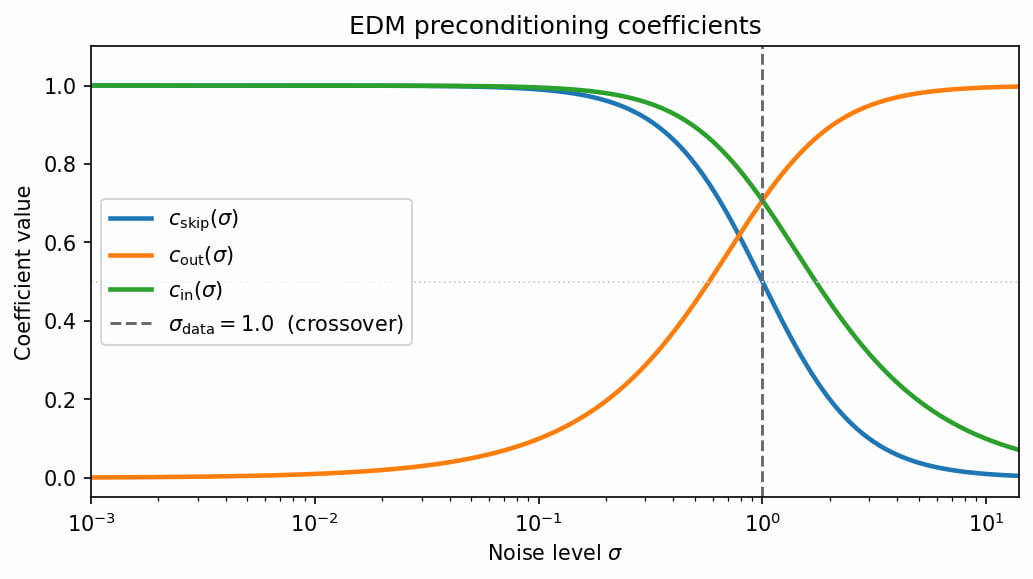
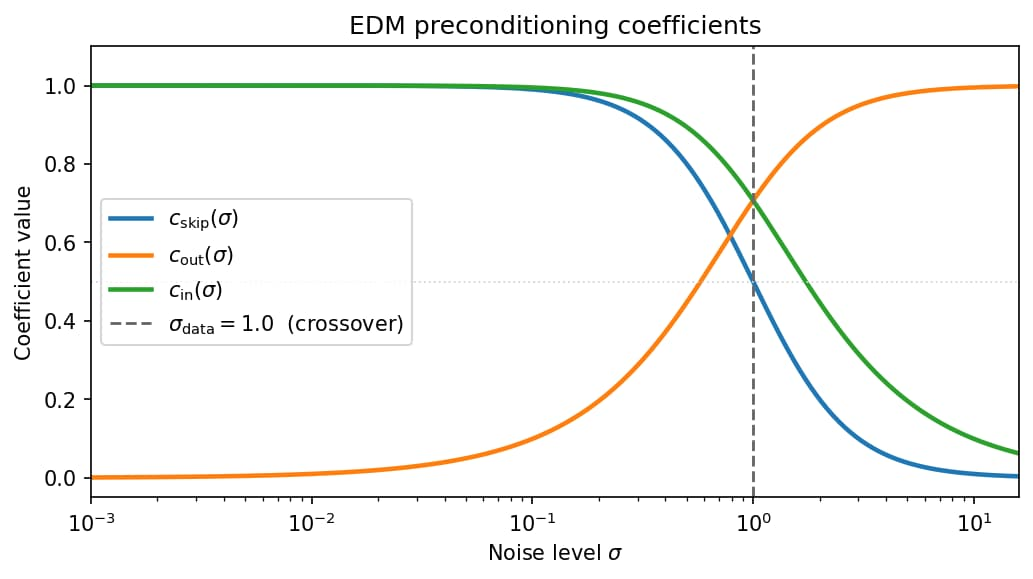
last modifications

diff --git a/ch3_theoretical_framework.tex b/ch3_theoretical_framework.tex
@@ -18,35 +18,35 @@ overnight return \(O_t / C_{t-1}\), which captures the opening gap with
 respect to the previous close, and the intraday range \(H_t - L_t\), a 
 well-established realised volatility proxy \cite{parkinson1980extreme}. In addition, log-returns are often preferred to nominal prices because of their stationarity \cite{cont2001empirical}, which makes them comparable across time and assets, removing underlying price trends.
 
-According to what stated before data can be partitioned into a conditioning set 
-\(\mathcal{C} = \{O, H, L\}\) and a target set \(\mathcal{T} = \{C\}\), 
-and the model is trained to learn the conditional distribution
+The data are therefore partitioned into observed conditioning variables 
+$X^{\text{co}} = \{O, H, L\}$ and a generation target $X^{\text{ta}} = \{C\}$, 
+and the model is trained to learn the conditional distribution:
 \[
-    p\!\left(X^{\text{ta}} \mid X^{\text{co}} = x^{\text{co}}\right),
+    p\!\left(X^{\text{ta}} \mid X^{\text{co}} = x^{\text{co}}\right)
 \]
-where \(X^{\text{ta}}\) denotes the Close channel and \(X^{\text{co}}\) 
-denotes the observed OHL channels. 
 
-Daily prices are constrained by the ordering relationship 
-\(L_t \leq \min(O_t, C_t) \leq \max(O_t, C_t) \leq H_t\). 
+Daily prices are constrained by the ordering relationship:
+\[L_t \leq \min(O_t, C_t) \leq \max(O_t, C_t) \leq H_t\] 
 When the series is expressed as log-returns (Eq.\ref{eq:log_returns}), this constraint no longer 
 admits a closed form, since it involves nonlinear inequalities across cumulative sums of returns rather than individual observations. 
-Nevertheless, it remains a building structural property of the 
-data-generating process. On the other hand, because the Gaussian diffusion kernel has 
-unbounded support, there is no guarantee that generated Close values 
-will respect the implied bounds \([L_t,\, H_t]\). No constraint-preserving 
-mechanism is applied in this work; the ordering relationship is further 
-disrupted by feature-wise global normalisation, which rescales each channel independently and therefore does not preserve the relative ordering between  channels.
+Nevertheless, it remains a fundamental structural property of the data-generating 
+process. On the other hand, because the Gaussian diffusion kernel has unbounded 
+support, there is no guarantee that generated Close values will respect the implied 
+bounds $[L_t, H_t]$. Moreover, enforcing such constraints is not always desirable: 
+confining generated price paths strictly within the High and Low bounds would 
+severely restrict the diversity of the generated samples. No constraint-preserving 
+mechanism is applied in this work; the ordering relationship is further disrupted by 
+feature-wise global normalisation, which rescales each channel independently and 
+therefore does not preserve the relative ordering between channels.
 
 \section{Classical Baselines with OHLC Conditioning}
 \label{sec:classical_baselines_theoretical}
 
-As introduced in Sec.~\ref{sec:classical_models_literature}, GARCH and Merton
+As introduced in Sec.\ \ref{sec:classical_models_literature}, GARCH and Merton
 models serve as parametric benchmarks. Both are extended with exogenous OHLC
 conditioning, denoted by the suffix \emph{-X}, so that they receive the same
-per-day information as the diffusion model's conditioning set
-$\mathcal{C}=\{O,H,L\}$. Each model is fitted per ticker by maximum likelihood
-via L-BFGS-B.
+per-day information as the diffusion model's conditioning set. Each model is fitted per ticker by maximum likelihood
+via L-BFGS-B\ \cite{byrd1995limited}.
 
 \textbf{Log-GARCH-X with Student-$t$ Innovations} \quad The close log-return follows an AR(1) mean with log-GARCH variance: \(r_t = \mu + \phi\, r_{t-1} + \varepsilon_t\) with \(\varepsilon_t = \sigma_t z_t\) and \(z_t \sim t_\nu\), therefore we are modeling:
 \begin{equation}
@@ -62,8 +62,8 @@ constraints on $(\omega,\alpha,\beta)$. The Student-$t$ innovations is used to b
     \tfrac{(\log H_t/L_t)^2}{4 \log 2} \Bigr]^\top,
 \]
 where $o_t^2$ is the squared overnight log-return and the second term is
-the Parkinson~\cite{parkinson1980extreme} realised variance estimator
-(Sec.~\ref{app:baselines} for more details).
+the Parkinson\ \cite{parkinson1980extreme} realised variance estimator
+(Sec.\ \ref{app:baselines} for more details).
 
 \textbf{Merton-X} \quad The close log-return is decomposed into a diffusive and a compound Poisson
 component:
@@ -82,47 +82,45 @@ where the diffusive volatility $\nu_t$ is driven by observations:
 Unlike GARCH-X, there is no sequential recursion: $\nu_t$ depends only on
 same-day observables, making the inference structure directly analogous to the
 diffusion model's use of $\{O_t, H_t, L_t\}$ to generate $C_t$.
-It is well established that marginalising over Poisson counts results in a Gaussian mixture likelihood (Sec.~\ref{app:baselines}). 
+It is well established that marginalising over Poisson counts results in a Gaussian mixture likelihood (Sec.\ \ref{app:baselines}). 
 
-Both baselines are parametric and trained globally per each ticker's full
-history, therefore they are ticker specific. Moreover, capture complementary stylized facts — volatility clustering and
-heavy tails in GARCH-X, sudden discontinuities in Merton-X — but neither
-learns the conditional distribution $p(r_t^C \mid r_t^O, r_t^H, r_t^L)$
-non-parametrically. The diffusion model is the non-parametric alternative,
+Both baselines are parametric and fitted separately on each ticker's full history, and are therefore ticker-specific. Moreover Merton-X captures a complementary stylized fact to GARCH-X: discontinuities. Nevertheless, none of the two learns the conditional distribution $p(r_t^C \mid r_t^O, r_t^H, r_t^L)$ non-parametrically. The diffusion model is the non-parametric alternative,
 at the cost of higher complexity.
 
 \section{SDE and the VE Instantiation}
-As discussed in Sec.~\ref{sec:scorediffmodels}, diffusion models were 
+As discussed in Sec.\ \ref{sec:scorediffmodels}, diffusion models were 
 originally developed in distinct formulations before being unified under 
-the EDM framework. These structures are relevant for Phase~1, which aims to replicate the results of Kim et al.\cite{kim2025diffusion}. Meanwhile, for Phase~2 we will move towards the EDM framework.
+the EDM framework. These formulation are relevant for Phase~1, which aims to replicate the results of Kim et al.\cite{kim2025diffusion}. Meanwhile, for Phase~2 we will move towards the EDM framework.
 
 \textbf{Phase 1} \quad Phase~1 is identical in its implementation to Song et al. in \cite{song2021score}, but in a simplified version.
 
-\textbf{Phase 2} \quad For Phase~2, we can look at the forward VE formulation, Eq.\ref{eq:reverse_sde}, the corresponding reverse SDE for VE case is \[dx=-\sigma\nabla_x \log p_\sigma(x)\] when defined in \(\sigma\)-space (with \(\sigma\) decreasing) instead of \(t\)-space, due to EDM conditioning modeling choices. With the deterministic counterparts, the probability flow ODE is:
+\textbf{Phase 2} \quad For Phase~2, by looking at the forward VE formulation (Eq.\ \ref{eq:forward_ve}), we can derive the reverse SDE\[dx=-\sigma\nabla_x \log p_\sigma(x)\] when defined in \(\sigma\)-space instead of \(t\)-space and with \(\sigma\) decreasing, as by EDM framework. The deterministic counterparts, the probability flow ODE, is:
 \[
 \frac{dx}{d\sigma}=-\frac{\sigma}{2}\nabla_x\log p_\sigma(x)
 \]
 
-As discussed in Sec.\ref{sec:scorediffmodels} we can use DSM to brigde the gap between denoising and score matching. It turned out that DSM is a special case of a statistical result known as Tweedie’s formula, which provides a relationship between score functions and conditional expectations. For noisy observation Eq.\ref{eq:forward_ve} the optimal MMSE denoiser is:
+As discussed in Sec.\ \ref{sec:scorediffmodels} we can use DSM to brigde the gap between denoising and score matching. It turned out that DSM is a special case of a statistical result known as Tweedie’s formula, which provides a relationship between score functions and conditional expectations. For noisy observation Eq.\ \ref{eq:forward_ve} the optimal MMSE denoiser is:
 \[
 D^*(x_t;\sigma)=\mathbb{E}\left[X_0|X_t=x_t\right]
 \]
-therefore denoiser and score function are connected by:
+Therefore, the denoiser and score function are connected by:
 \[
 \nabla_{x_t}\log p_\sigma(x_t)=\frac{D^*(x_t;\sigma)-x_t}{\sigma^2}
 \]
-implying that rather than learn the score field directly, which is hard and ill-conditioned regression target in high dimensions, we train a denoiser \(D_\theta\) to approximate \(D^*\), and we later recover the score analytically.
+implying that rather than learn the score field directly, which is hard and an ill-conditioned regression target in high dimensions, we train a denoiser \(D_\theta\) to approximate \(D^*\), and we later recover the score analytically.
 
 \section{GBM--style SDE and CSDI}
 \label{sec:gbm_sde_ch3}
-In Sec.\ref{sec:gbm_sde_ch2} we highlighted that the GBM derivation operates on log-prices $X_t=\log S_t$ in theory, while training is performed on log-returns. The cumulative interpretation of log-returns bridges this gap, since summing returns recovers the log-price path the GBM dynamics act upon. This stands from the fact that training diffusion models on raw log-prices is inadvisable
+In Sec.\ref{sec:gbm_sde_ch2} we highlighted that the GBM derivation operates on log-prices $X_t=\log S_t$ in theory, while training is performed on log-returns. The cumulative interpretation of log-returns closes this gap, since summing returns recovers the log-price path the GBM dynamics act upon. This stands from the fact that training diffusion models on raw log-prices is inadvisable
 for two reasons. First, log-prices are non-stationary, therefore their mean grows approximately linearly and with different scales across tickers and time periods. Second, the sampling process relies on a Gaussian prior 
-$\mathcal{N}(0, \sigma_{\max}^2 I)$ that should be well-matched to the training distribution, which in this case means only if the data input is approximately centered at zero with a scale commensurate with $\sigma_{\max}$. 
+$\mathcal{N}(0, \sigma_{\max}^2 I)$; for this prior to be well-matched 
+to the training distribution, the input data must be approximately 
+centred at zero with a scale commensurate with $\sigma_{\max}$.
 Raw log-prices violate both conditions significantly. Daily log-returns 
 $r_t = \log(S_t / S_{t-1})$ solve non-stationarity, however, 
 working with cumulative log-returns 
 $\mathcal{C}_{\tau+k} = \sum_{j=1}^{\tau+k} r_j$ 
-is motivated by the GBM theoretical derivation of Sec.~\ref{sec:gbm_sde_ch2} and by the experimental results shown in Figures~4--6 of \cite{kim2025diffusion}, that otherwise wouldn't have any reason to differentiate VE with GBM. How non--stationarity of cumulative log-returns is handled is addressed in Sec.\ref{sec:sliding_window_ch4}.
+is motivated by the GBM theoretical motivations of Sec.\ \ref{sec:gbm_sde_ch2} and by the experimental results shown in Figures~4--6 of Kim et al.\ \cite{kim2025diffusion}, that otherwise wouldn't have any reason to differentiate VE from GBM. How non--stationarity of cumulative log-returns is handled is addressed in Sec.\ \ref{sec:sliding_window_ch4}.
 
 \begin{figure}[htbp]          % placement: here, top, bottom, page
   \centering
@@ -131,33 +129,28 @@ is motivated by the GBM theoretical derivation of Sec.~\ref{sec:gbm_sde_ch2} and
   \label{fig:kim_architecture}
 \end{figure}
 
-Another inconsistency arises between the described use of time, positional, and diffusion-step embeddings. The text states that
+Another inconsistency in Kim et al.\ \cite{kim2025diffusion} concerns the use of time, positional, and diffusion-step embeddings. The text states that
 \begin{quote}
     \emph{These embeddings are added to the latent representation and passed through a Transformer block, which models global dependencies across time.}
 \end{quote}
-However, Fig.\ref{fig:kim_architecture} clearly shows that the time embeddings is provided only after the Transformer layer. This last interpretation was used. 
-
-Based on the model architecture presented in Fig.\ref{fig:kim_architecture}, the diffusion-step, temporal, and positional embeddings were interpreted as being injected independently at every residual block, consistently with the approach adopted in CSDI \cite{tashiro2021csdi}. This reading is further supported by Fig.\ref{fig:kim_architecture} itself, their position is probably justified by the fact that they are computed once. Notably, Kim et al.\ \cite{kim2025diffusion} describe the time embedding as combining sinusoidal functions with learnable vectors, while the positional embedding relies solely on fixed sinusoidal functions with no learnable parameters; this distinction suggests that the positional embedding is the only one among the three that contains no trainable weights. 
-
-% The authors Kim et al.\cite{kim2025diffusion} did not release a common dataset, source code, or key implementation details, including data pre-processing, the masking strategy, the model’s loss function or prediction target, kernel size, transformer hyperparameters, optimizer configuration, and others. All these aspects will be examined in detail in Ch.\ref{ch:data_setup}.
+However, Fig.\ \ref{fig:kim_architecture} clearly shows that the time embeddings is provided only after the Transformer layer. This last interpretation was used. Moreover, based on the model architecture presented in Fig.\ \ref{fig:kim_architecture}, the diffusion-step, temporal, and positional embeddings were interpreted as being injected independently at every residual block, consistently with the approach adopted in CSDI\ \cite{tashiro2021csdi}. Lastly, Kim et al.\ \cite{kim2025diffusion} describe the time embedding as combining sinusoidal functions with learnable vectors, while the positional embedding relies solely on fixed sinusoidal functions with no learnable parameters; this distinction suggests that the positional embedding is the only one among the three that contains no trainable weights. 
 
 \section{EDM}
 The components described in this section apply exclusively to Phase~2.
 
-\textbf{Preconditioning} \quad Training a raw network \(F_\theta (x_t;\sigma)\) directly as a denoiser is impractical because according to 
-Eq.\ref{eq:forward_ve} the inputs have variance \(\sigma_{\text{data}}+\sigma^2\), which means that the network sees input that varies by orders of magnitude across the distribution of \(\sigma\), which display different noise levels, as discussed in Sec.\ref{sec:edm_literature}. EDM addresses both problems introducing preconditioned denoiser \(D_\theta\) (Eq.\ref{eq:edm_denoiser}). 
+\textbf{Preconditioning} \quad Training a raw network \(F_\theta (x_t;\sigma)\) directly as a denoiser is impractical because according to the VE forward process (Eq.\ \ref{eq:forward_ve}) the inputs have variance \(\sigma_{\text{data}}+\sigma^2\), which means that the network sees input that varies by orders of magnitude across the distribution of \(\sigma\) (different noise levels), as discussed in Sec.\ \ref{sec:edm_literature}. EDM addresses both problems introducing preconditioned denoiser \(D_\theta\) (Eq.\ \ref{eq:edm_denoiser}). 
 
 Follows the role of each preconditioning parameter:
 \begin{itemize}
-    \item \(c_{\text{in}}(\sigma)\), input normalization: \(F_\theta\) receives as input \(c_{\text{in}}(\sigma)\cdot x_t\), and because, according to Eq.\ref{eq:forward_ve}, \(\operatorname{Var}(x_t)=\sigma_{\text{data}}^2+\sigma^2\), then we scale the input to unit variance.
-    \item \(c_{\text{skip}}(\sigma)\), skip connection: is the Wiener filter coefficient, or the optimal linear estimator of \(x_0\) given \(x_t\). This is dervied from the MMSE argument, and it controls how much of the noisy input is passed directly to the output.
+    \item \(c_{\text{in}}(\sigma)\), input normalization: \(F_\theta\) receives as input \(c_{\text{in}}(\sigma)\cdot x_t\), and because, according to Eq.\ \ref{eq:forward_ve}, \(\operatorname{Var}(x_t)=\sigma_{\text{data}}^2+\sigma^2\), then we scale the input to unit variance.
+    \item \(c_{\text{skip}}(\sigma)\), skip connection: is the Wiener filter coefficient (Sec.\ \ref{app:subsec:wiener}), or the optimal linear estimator of \(x_0\) given \(x_t\). This is dervied from the MMSE argument, and it controls how much of the noisy input is passed directly to the output.
     \item \(c_{\text{out}}(\sigma)\), output scaling: rescales the network output so that the effective training targets also have unit variance, similarly to \(c_{\text{in}}(\sigma)\).
 \end{itemize}
 
 \begin{figure}[htbp]          % placement: here, top, bottom, page
   \centering
   \includegraphics[width=0.6\textwidth]{images/preconditioning.jpg}
-  \caption{Preconditioning coefficients for \(\sigma_{\text{data}}=1\), with \(\sigma_{\min}=0.002\) and \(\sigma_{\max}=7.0\).}
+  \caption{Preconditioning coefficients for \(\sigma_{\text{data}}=1\), with \(\sigma_{\min}=0.002\) and \(\sigma_{\max}=8.0\).}
   \label{fig:preconditioning}
 \end{figure}
 In summary, \(c_{\text{skip}}(\sigma)\cdot x\) is the linear prior, while \(c_{\text{out}}(\sigma)\cdot F_\theta(\cdot)\) is the non-linear correction on top of the prior. It is important to pay attention at the crossover point where \(\sigma=\sigma_{\text{data}}\) and \(c_{\text{skip}}(\sigma)=0.5\), meaning both terms contributes equally. For instance, with \(\sigma_{\text{data}}=1\) then if \(\sigma<1\), the network makes tiny corrections and if \(\sigma>5\), the network reconstruct almost entirely from noise. 
@@ -176,7 +169,7 @@ variance by construction, so \(\sigma_{\text{data}} = 1.0\) is the
 appropriate choice. It is important to notice that \(P_{\text{mean}}\) shift the distribution, where lower values concentrate training on fine-grained reconstruction, and viceversa. \(P_{\text{std}}\) control the spread, where wider spread gives more uniform coverage. It is important that the \(\sigma_{\max}\) used for the prior sampling in the reverse process, covers approximately 95\% or more of the distribution \(\ln (\sigma)\sim \mathcal{N}(P_{\text{mean}}, P_{\text{std}}^2)\). Whether \(P_{\text{mean}}\) and \(P_{\text{std}}\) 
 also have empirically optimal values for this domain remains an open calibration question only partially addressed in this work. 
 
-\textbf{Loss function} \quad EDM varies also the loss function characterization by moving away from noise prediction as in Eq.\ref{eq:csdi_objective}, to a "clean" data prediction, Eq.\ref{eq:edm_loss}, with different weighting, as discussed in Sec.\ref{sec:edm_literature}.
+\textbf{Loss function} \quad EDM varies also the loss function characterization by moving away from noise prediction as in Phase~1 (Eq.\ \ref{eq:csdi_objective}), to a "clean" data prediction as in Eq.\ \ref{eq:edm_loss} and with different weighting, as discussed in Sec.\ \ref{sec:edm_literature}.
 
 \section{Architecture}
 \label{sec:model_architecture}
@@ -188,11 +181,11 @@ and convolutional inductive biases provide strong local structure and
 multi-scale spatial representations. Financial time series, however, are 
 not characterised by local spatial regularity but by long-range temporal 
 dependencies and contemporaneous cross-channel relationships, for which 
-the locality assumptions of convolutions are a poor fit. Transformers, by 
+the locality assumptions of convolutions is a poor fit. Transformers, by 
 contrast, attend globally over the input, making them 
 theoretically better suited to this domain. 
 
-As discussed in Sec.~\ref{sec:csdi_literature}, CSDI factors the full 
+As discussed in Sec.\ \ref{sec:csdi_literature}, CSDI factors the full 
 \(K \times L\) attention into a temporal Transformer operating over 
 \(L \times L\) and a feature Transformer operating over \(K \times K\), 
 reducing complexity from \(\mathcal{O}\!\left((KL)^2\right)\) to 
@@ -204,7 +197,7 @@ product space would mix these two distinct dependency
 types, making the learned representations harder to interpret and 
 potentially trickier to optimise.
 
-Fig.~\ref{fig:csdi_overview} illustrates the overall flow of the denoiser. The noise level \(\sigma\), the noised data \(x_t\), the observed (conditioning) data, the \texttt{cond\_mask} marking which entries are conditional, and the \texttt{observed\_tp} time indices are fed into the network at the stages shown in Fig.~\ref{fig:model_input}. These inputs are processed by a stack of \(n\) \texttt{ResidualBlock} layers, yielding the preconditioned output \(F_\theta\bigl(c_{\text{in}}(\sigma)x;\, c_{\text{noise}}(\sigma)\bigr)\). The internal structure of each \texttt{ResidualBlock}, shown in Fig.~\ref{fig:csdi_residual_block}, is detailed below.
+Fig.\ \ref{fig:csdi_overview} illustrates the overall flow of the denoiser. The noise level \(\sigma\), the noised data \(x_t\), the observed (conditioning) data, the \texttt{cond\_mask} indicating which entries serve as conditioning inputs, and the \texttt{observed\_tp} time indices are all injected into the network at the stages depicted in Fig.\ \ref{fig:model_input}. These inputs are processed through a stack of \(n\) \texttt{ResidualBlock} layers, producing the preconditioned output \(F_\theta\bigl(c_{\text{in}}(\sigma)x;\, c_{\text{noise}}(\sigma)\bigr)\). The internal structure of each \texttt{ResidualBlock}, shown in Fig.\ \ref{fig:csdi_residual_block}, is described in detail below.
 
 % % THE GRAPHS ARCHITECTURES ARE HERE
 
@@ -226,7 +219,7 @@ latent space, where \(d\) is a free hyperparameter, lifting the two input channe
   \begin{minipage}[t]{0.68\textwidth}
     \centering
     \includegraphics[width=\textwidth]{images/input_drawings.png}
-    \caption{Representation of model inputs and how they are feeded into the Denoiser. Input projection and ResidualBlock are those represented in Fig.\ \ref{fig:csdi_overview}.}
+    \caption{Representation of model inputs and how they are feeded into the Denoiser. \texttt{input projection} and \texttt{ResidualBlock} are those represented in Fig.\ \ref{fig:csdi_overview}.}
     \label{fig:model_input}
   \end{minipage}
   \hfill
@@ -241,22 +234,19 @@ latent space, where \(d\) is a free hyperparameter, lifting the two input channe
 \textbf{Temporal and feature Transformer layers} \quad A new temporal \((K, L, d)\) and feature \((L, K, d)\) Transformer is initialised per 
 residual layer rather than shared across them, Fig.\ \ref{fig:csdi_residual_block}. Weight sharing would 
 constrain all layers to operate at the same level of abstraction, 
-limiting the model's ability to build hierarchical representations; 
-independent weights allow each layer to specialise. This is consistent 
-with the CSDI implementation \cite{tashiro2021csdi}. Multi-head attention 
-\cite{vaswani2017attention} allows the model to attend to multiple 
+limiting the model's ability to build hierarchical representations, while independent weights allow each layer to specialise; consistently with CSDI implementation\ \cite{tashiro2021csdi}. Multi-head attention\ \cite{vaswani2017attention} allows the model to attend to multiple 
 dependency patterns simultaneously within each axis, for instance it could modeled 
-short-range trend and longer-range volatility clustering along the temporal axis, or spread relationships along the feature axis. The detailed structure is represented in Fig.\ \ref{fig:transformer_architecture_encoder}. 
+short-range trend and longer-range volatility clustering along the temporal axis, or spread relationships along the feature axis. The structure is represented in Fig.\ \ref{fig:transformer_architecture}. 
 
 \textbf{Gated residual blocks} \quad Following the WaveNet structure 
-\cite{oord2016wavenet}, each block applies \(\sigma(\cdot) \odot 
-\tanh(\cdot)\), where \(\odot\) denotes elementwise multiplication. The 
+\cite{oord2016wavenet}, each block applies the element wise multiplication of \(\sigma(\cdot) \odot 
+\tanh(\cdot)\). The 
 sigmoid \(\sigma(\cdot)\) acts as the selection gate, producing a value 
-in \([0,1]\) that controls how much of the candidate update is passed 
+in \([0,1]\) that controls \emph{how much} of the candidate update is passed 
 forward. The \(\tanh(\cdot)\) acts as the content filter, producing a 
 bounded, signed activation in \([-1,1]\) that encodes \emph{what} 
 information to write. Their product suppresses uninformative information 
-while preserving significant features. This could be useful for FTS, since Signal-to-Noise Ratio (SNR) is often low and depends on the regime, training window. 
+while preserving significant features. This could be useful for FTS, since Signal-to-Noise Ratio (SNR) is often low and depends on the regime. 
 
 \textbf{Embeddings} \quad Three embedding mechanisms operate at distinct 
 levels of the architecture, each with a well-defined scope. The 
@@ -271,12 +261,12 @@ with recurring temporal patterns such as month-end or seasonal effects
 that are persistent in the training data; a feature 
 embedding is a learned lookup table over channel indices \(\{O, H, L, 
 C\}\), giving the model an explicit representation of each channel, enabling channel-specific denoising. Finally, the 
-\emph{sinusoidal positional encoding} (\texttt{Sinusoidal PE}), following \cite{kim2025diffusion}, 
+\emph{sinusoidal positional encoding} (\texttt{Sinusoidal PE}), following Kim et al.\ \cite{kim2025diffusion}, 
 encodes the relative position of each element within the sequence and is 
 injected immediately before each Transformer call, both along the 
 temporal and feature axes. Without this, the Transformer would be permutation-invariant, which would destroy the temporal order, which is essential for financial return sequences.
 
-\textbf{Residuals and skip connections} \quad Each \texttt{ResidualBlock} produces two outputs: a residual branch, added back to the block's input, and a skip branch, collected and pooled across all \(n\) blocks before the final output projection. Following WaveNet \cite{oord2016wavenet} and CSDI \cite{tashiro2021csdi}, this lets every block contribute directly to the prediction regardless of its depth in the stack, while the residual sum and the skip pooling are rescaled by \(1/\sqrt{2}\) and \(1/\sqrt{n}\) respectively to keep the signal variance stable as blocks accumulate. The \texttt{mid\_projection} is a pointwise convolution that doubles the channel dimension immediately before the side-information conditioning is added; this provides the extra capacity needed to later split the combined representation into the gate and filter branches of the gated activation unit.
+\textbf{Residuals and skip connections} \quad Each \texttt{ResidualBlock} produces two outputs: a residual branch, added back to the block's input, and a skip branch, collected and pooled across all \(n\) blocks before the final output projection. Following WaveNet\ \cite{oord2016wavenet} and CSDI\ \cite{tashiro2021csdi}, each \texttt{ResidualBlock} produces two outputs: a residual branch, added back to the block's own input, and a skip branch, aggregated across all \(n\) blocks before the final output projection. This design allows every block to contribute directly to the prediction, irrespective of its depth in the stack. The residual addition and the skip aggregation are rescaled by \(1/\sqrt{2}\) and \(1/\sqrt{n}\), respectively, to maintain stable signal variance as representations accumulate through successive blocks. The \texttt{mid\_projection} is a pointwise convolution that doubles the channel dimension immediately before the side-information conditioning is added; this provides the extra capacity needed to later split the combined representation into the gate and filter branches of the gated activation unit.
 
 \section{Masking strategies}
 \label{sec:masking_strategies_ch3}
@@ -288,7 +278,7 @@ mask is \(m^{\text{co}}=0\) everywhere, and the target mask is
 \(m^{\text{ta}}=1\) everywhere, so the loss reduces to the
 standard denoising objective evaluated on all entries without any side information.
 
-\textbf{Remark on the \texttt{unconditional} label} \quad It is worth stressing that the \texttt{unconditional} mask eliminates value-level conditioning, since the OHL channels are zeroed in the model input, but it does not eliminate temporal conditioning. The time embedding (\texttt{observed\_tp}), encoding the absolute calendar position of each time step as described in Sec.~\ref{sec:model_architecture}, is passed to the model regardless of mask mode and contributes a form of conditioning on calendar time. In this sense, both training modes model a temporally conditioned distribution \(p_\theta(x \mid \tau)\), where \(\tau\) denotes \texttt{observed\_tp}; the \texttt{unconditional} mask differs from \texttt{predict\_close} only in not providing observed OHLC values.
+\textbf{Remark on the \texttt{unconditional} label} \quad It is worth stressing that the \texttt{unconditional} mask eliminates value-level conditioning, since the OHL channels are zeroed in the model input, but it does not eliminate temporal conditioning. The time embedding (\texttt{observed\_tp}), encoding the absolute calendar position of each time step as described in Sec.\ \ref{sec:model_architecture}, is passed to the model regardless of mask mode and contributes a form of conditioning on calendar time. In this sense, both training modes model a temporally conditioned distribution \(p_\theta(x \mid \tau)\), where \(\tau\) denotes \texttt{observed\_tp}; the \texttt{unconditional} mask differs from \texttt{predict\_close} only in not providing observed OHLC values.
 
 \textbf{Phase 2} \quad When \(K>1\) we use the \texttt{predict\_close} strategy which is a fixed deterministic mask:
 \[
@@ -310,10 +300,10 @@ stochastically at each training step. The \texttt{predict\_close} mask
 is closest to CSDI's \emph{test-pattern} strategy, applied at the 
 channel level rather than the time-point level, and is consistent with 
 the OHLC information structure discussed in 
-Sec.~\ref{sec:ohlc_theoretical}: the conditioning set \(\{O,H,L\}\) 
+Sec.\ \ref{sec:ohlc_theoretical}: the conditioning set \(\{O,H,L\}\) 
 is always observed before \(C\) within a trading session.
 
-As introduced in Sec.~\ref{sec:model_architecture}, the two-channel 
+As introduced in Sec.\ \ref{sec:model_architecture}, the two-channel 
 input to the backbone concatenates a signal channel and a mask channel:
 \[
     \underbrace{m^{\text{co}} \odot x_0^{\text{co}} + 
@@ -325,7 +315,7 @@ input to the backbone concatenates a signal channel and a mask channel:
 The scaling \(c_{\text{in}}(\sigma)\) is applied only to the noisy 
 target entries and not to the clean conditioning observations, since the 
 latter carry no noise and no variance drift; rescaling them would destroy 
-the conditioning signal. The conditional EDM loss (Eq.~\ref{eq:edm_loss}) 
+the conditioning signal. The conditional EDM loss (Eq.\ \ref{eq:edm_loss}) 
 becomes:
 \[
     \mathcal{L}_{\text{cond}}(\theta) = \mathbb{E}_{\sigma,x_0,\epsilon}
@@ -357,7 +347,7 @@ consistent with the CSDI implementation.
 
 \section{Sampling}
 
-\textbf{Phase 1} \quad As discussed in Sec.~\ref{sec:scorediffmodels}, the Euler--Maruyama
+\textbf{Phase 1} \quad As discussed in Sec.\ \ref{sec:scorediffmodels}, the Euler--Maruyama
 method performs a first-order discretisation of the reverse SDE, at each
 step removing noise while injecting a small stochastic perturbation. 
 Because it is first-order, the local truncation error is 
@@ -369,19 +359,19 @@ phase together with the probability flow ODE Eq.\ref{eq:probability_flow}, where
 intractable \(\nabla_x \log p_t(x_t)\).
 
 \textbf{Phase 2} \quad In the EDM phase, the Heun second-order
-predictor--corrector sampler (Eq.~\ref{eq:edm_sampler}) was used, which
+predictor--corrector sampler (Eq.\ \ref{eq:edm_sampler}) was used, which
 integrates the probability flow ODE rather than the reverse SDE. The 
 corrector step requires twice the number of network evaluations per 
 denoising step, but reduces the local truncation error to 
 \(\mathcal{O}(h^3)\). Karras et al.\ \cite{karras2022elucidating} report 
 that this achieves comparable sample quality to Euler--Maruyama at approximately seven times fewer NFEs.
 % As discussed in 
-% Sec.~\ref{sec:edm_literature}, the \(\rho\)-power noise schedule 
+% Sec.\ \ref{sec:edm_literature}, the \(\rho\)-power noise schedule 
 % concentrates denoising steps at low \(\sigma\), where ODE curvature is 
 % highest and discretisation errors have the greatest impact on sample 
 % quality.
 
-% The choice of \(\sigma_{\text{max}}\) and \(S_{\text{churn}}\) jointly determines the character of sampling. \(\sigma_{\text{max}}\) sets the noise level at which the reverse process begins, so the prior from which samples are drawn is \(x_N \sim \mathcal{N}(0,\sigma_{\text{max}}^2 I)\); for this prior to be approximately data-free, \(\sigma_{\text{max}}\) must be large enough that the signal-to-noise ratio is negligible. For standardised OHLC log-returns with \(\sigma_{\text{data}} = 1\), values of \(\sigma_{\text{max}} \gg 1\) are required, and setting it too small results in a prior that retains residual data structure, biasing every generated sample. As discussed in Sec.~\ref{sec:edm_literature}, \(S_{\text{churn}}\) governs the amount of stochasticity reinjected per step via the noise inflation \(\hat{\sigma}_i = \sigma_i\sqrt{1+\gamma_i^2}\): a value of \(S_{\text{churn}} = 0\) recovers the deterministic Heun ODE, while positive values allow the sampler to escape discretisation errors by temporarily re-entering a higher-noise regime, at the cost of additional noise injections along each trajectory.
+% The choice of \(\sigma_{\text{max}}\) and \(S_{\text{churn}}\) jointly determines the character of sampling. \(\sigma_{\text{max}}\) sets the noise level at which the reverse process begins, so the prior from which samples are drawn is \(x_N \sim \mathcal{N}(0,\sigma_{\text{max}}^2 I)\); for this prior to be approximately data-free, \(\sigma_{\text{max}}\) must be large enough that the signal-to-noise ratio is negligible. For standardised OHLC log-returns with \(\sigma_{\text{data}} = 1\), values of \(\sigma_{\text{max}} \gg 1\) are required, and setting it too small results in a prior that retains residual data structure, biasing every generated sample. As discussed in Sec.\ \ref{sec:edm_literature}, \(S_{\text{churn}}\) governs the amount of stochasticity reinjected per step via the noise inflation \(\hat{\sigma}_i = \sigma_i\sqrt{1+\gamma_i^2}\): a value of \(S_{\text{churn}} = 0\) recovers the deterministic Heun ODE, while positive values allow the sampler to escape discretisation errors by temporarily re-entering a higher-noise regime, at the cost of additional noise injections along each trajectory.
 
 A key advantage of the EDM framework is the decoupling of the sampler
 from the training objective: a model trained with the EDM loss can be

diff --git a/ch2_literature_review.tex b/ch2_literature_review.tex
@@ -394,11 +394,11 @@ This question remains open in literature, but in order to narrow down the proble
     \item \textbf{Q1.} \quad Can a diffusion model based on Gaussian perturbations learn a heavy--tailed target distribution at all?
     \item \textbf{Q2.} \quad If it can, how much modelling capacity should be explicitly allocated to tail behaviour rather than to the bulk of the distribution?
 \end{itemize}
-Recent theoretical work suggests that Gaussian perturbations are not automatically invalid in the presence of heavy tails. Yu et al.\ \cite{yu2026diffusion} study standard Gaussian score-based diffusion models when the target distribution is heavy--tailed. Under a tractable kernel-based score estimator, they derive minimax guarantees showing a distinction between tail regimes: for exponentially decaying tails, Gaussian diffusion remains statistically robust, while for polynomially decaying tails the score-estimation and sampling rates depend explicitly on the tail index. Since financial log-returns are commonly modelled as having polynomial-like tail decay, this result is directly relevant to financial time series. This does not imply that Gaussian diffusion is infeasible, but rather that heavy tails increase the statistical difficulty of score learning.
+Recent theoretical work suggests that Gaussian perturbations are not automatically invalid in the presence of heavy tails. Yu et al.\ \cite{yu2026diffusion} study standard Gaussian score-based diffusion models when the target distribution is heavy--tailed. Under a tractable kernel-based score estimator, they derive minimax guarantees showing a distinction between tail regimes: for exponentially decaying tails, Gaussian diffusion remains statistically robust, while for polynomially decaying tails the score-estimation and sampling rates depend explicitly on the tail index. Since financial log-returns are commonly modelled as having polynomial-like tail decay, this result is directly relevant to financial time series. This does not imply that Gaussian diffusion is infeasible, but rather that heavy tails increase the statistical difficulty of score learning (Q1).
 
-A complementary line of work modifies the perturbation distribution itself. Pandey et al.\ \cite{pandey2024heavytailed} propose heavy--tailed diffusion models based on multivariate Student-\(t\) perturbation kernels, leading to \(t\)-EDM. In this framework, the degrees-of-freedom parameter \(\nu\) controls tail heaviness: smaller values of \(\nu\) produce heavier tails, while the Gaussian case is recovered in the limit \(\nu \to \infty\). Because the Kullback--Leibler divergence between Student-\(t\) distributions does not generally admit a convenient closed form, they replace the usual KL-based objective with a \(\gamma\)-power divergence. This objective is not an ELBO in the standard sense, but it recovers the KL divergence in the appropriate limited regime. 
+A complementary line of work modifies the perturbation distribution itself. Pandey et al.\ \cite{pandey2024heavytailed} propose heavy--tailed diffusion models based on multivariate Student-\(t\) perturbation kernels, leading to \(t\)-EDM. In this framework, the degrees-of-freedom parameter \(\nu\) controls tail heaviness: smaller values of \(\nu\) produce heavier tails, while the Gaussian case is recovered in the limit \(\nu \to \infty\). Because the Kullback--Leibler divergence between Student-\(t\) distributions does not generally admit a convenient closed form, they replace the usual KL-based objective with a \(\gamma\)-power divergence. This objective is not an ELBO in the standard sense, but it recovers the KL divergence in the appropriate limited regime (Q2). 
 
-A more radical alternative is to replace Brownian motion itself with a heavy--tailed jump process. Yoon et al.\ \cite{yoon2023score} propose the L\'evy-It\^o Model, which uses isotropic \(\alpha\)-stable L\'evy processes instead of Brownian motion. They derive the corresponding reverse-time SDE and train the model through fractional denoising score matching. Such an approach is conceptually appealing for financial data, where jumps and rare events are structurally important, though the isotropic $\alpha$-stable forward process ($\alpha<2$, infinite variance) sits in some tension with the finite-variance, $\alpha\in[3,5]$ characterisation of returns from Sec.~\ref{sec:fts_literature}. However, its substantially different mathematical framework would not have allowed comparability with Kim et al.\ \cite{kim2025diffusion}, and applying CSDI as a denoiser within it would have been of doubtful outcome.
+A more radical alternative is to replace Brownian motion itself with a heavy--tailed jump process. Yoon et al.\ \cite{yoon2023score} propose the L\'evy-It\^o Model, which uses isotropic \(\alpha\)-stable L\'evy processes instead of Brownian motion. They derive the corresponding reverse-time SDE and train the model through fractional denoising score matching. Such an approach is conceptually appealing for financial data, where jumps and rare events are structurally important, though the isotropic $\alpha$-stable forward process ($\alpha<2$, infinite variance) sits in some tension with the finite-variance, $\alpha\in[3,5]$ characterisation of returns from Sec.~\ref{sec:fts_literature}. However, its substantially different mathematical framework would not have allowed comparability with Kim et al.\ \cite{kim2025diffusion}, and applying CSDI as a denoiser within it would have been of doubtful outcome (Q2).
 
 Consequently, this thesis study a Gaussian EDM--CSDI baseline for conditional financial time-series generation, with explicit tail-sensitive evaluation. Heavy--tailed perturbation kernels and L\'evy-driven score models may improve tail fidelity, but they also introduce additional modelling choices and may alter the trade-off between tail accuracy, bulk distributional fit, training stability, and computational simplicity.
 % \section{Summary}
